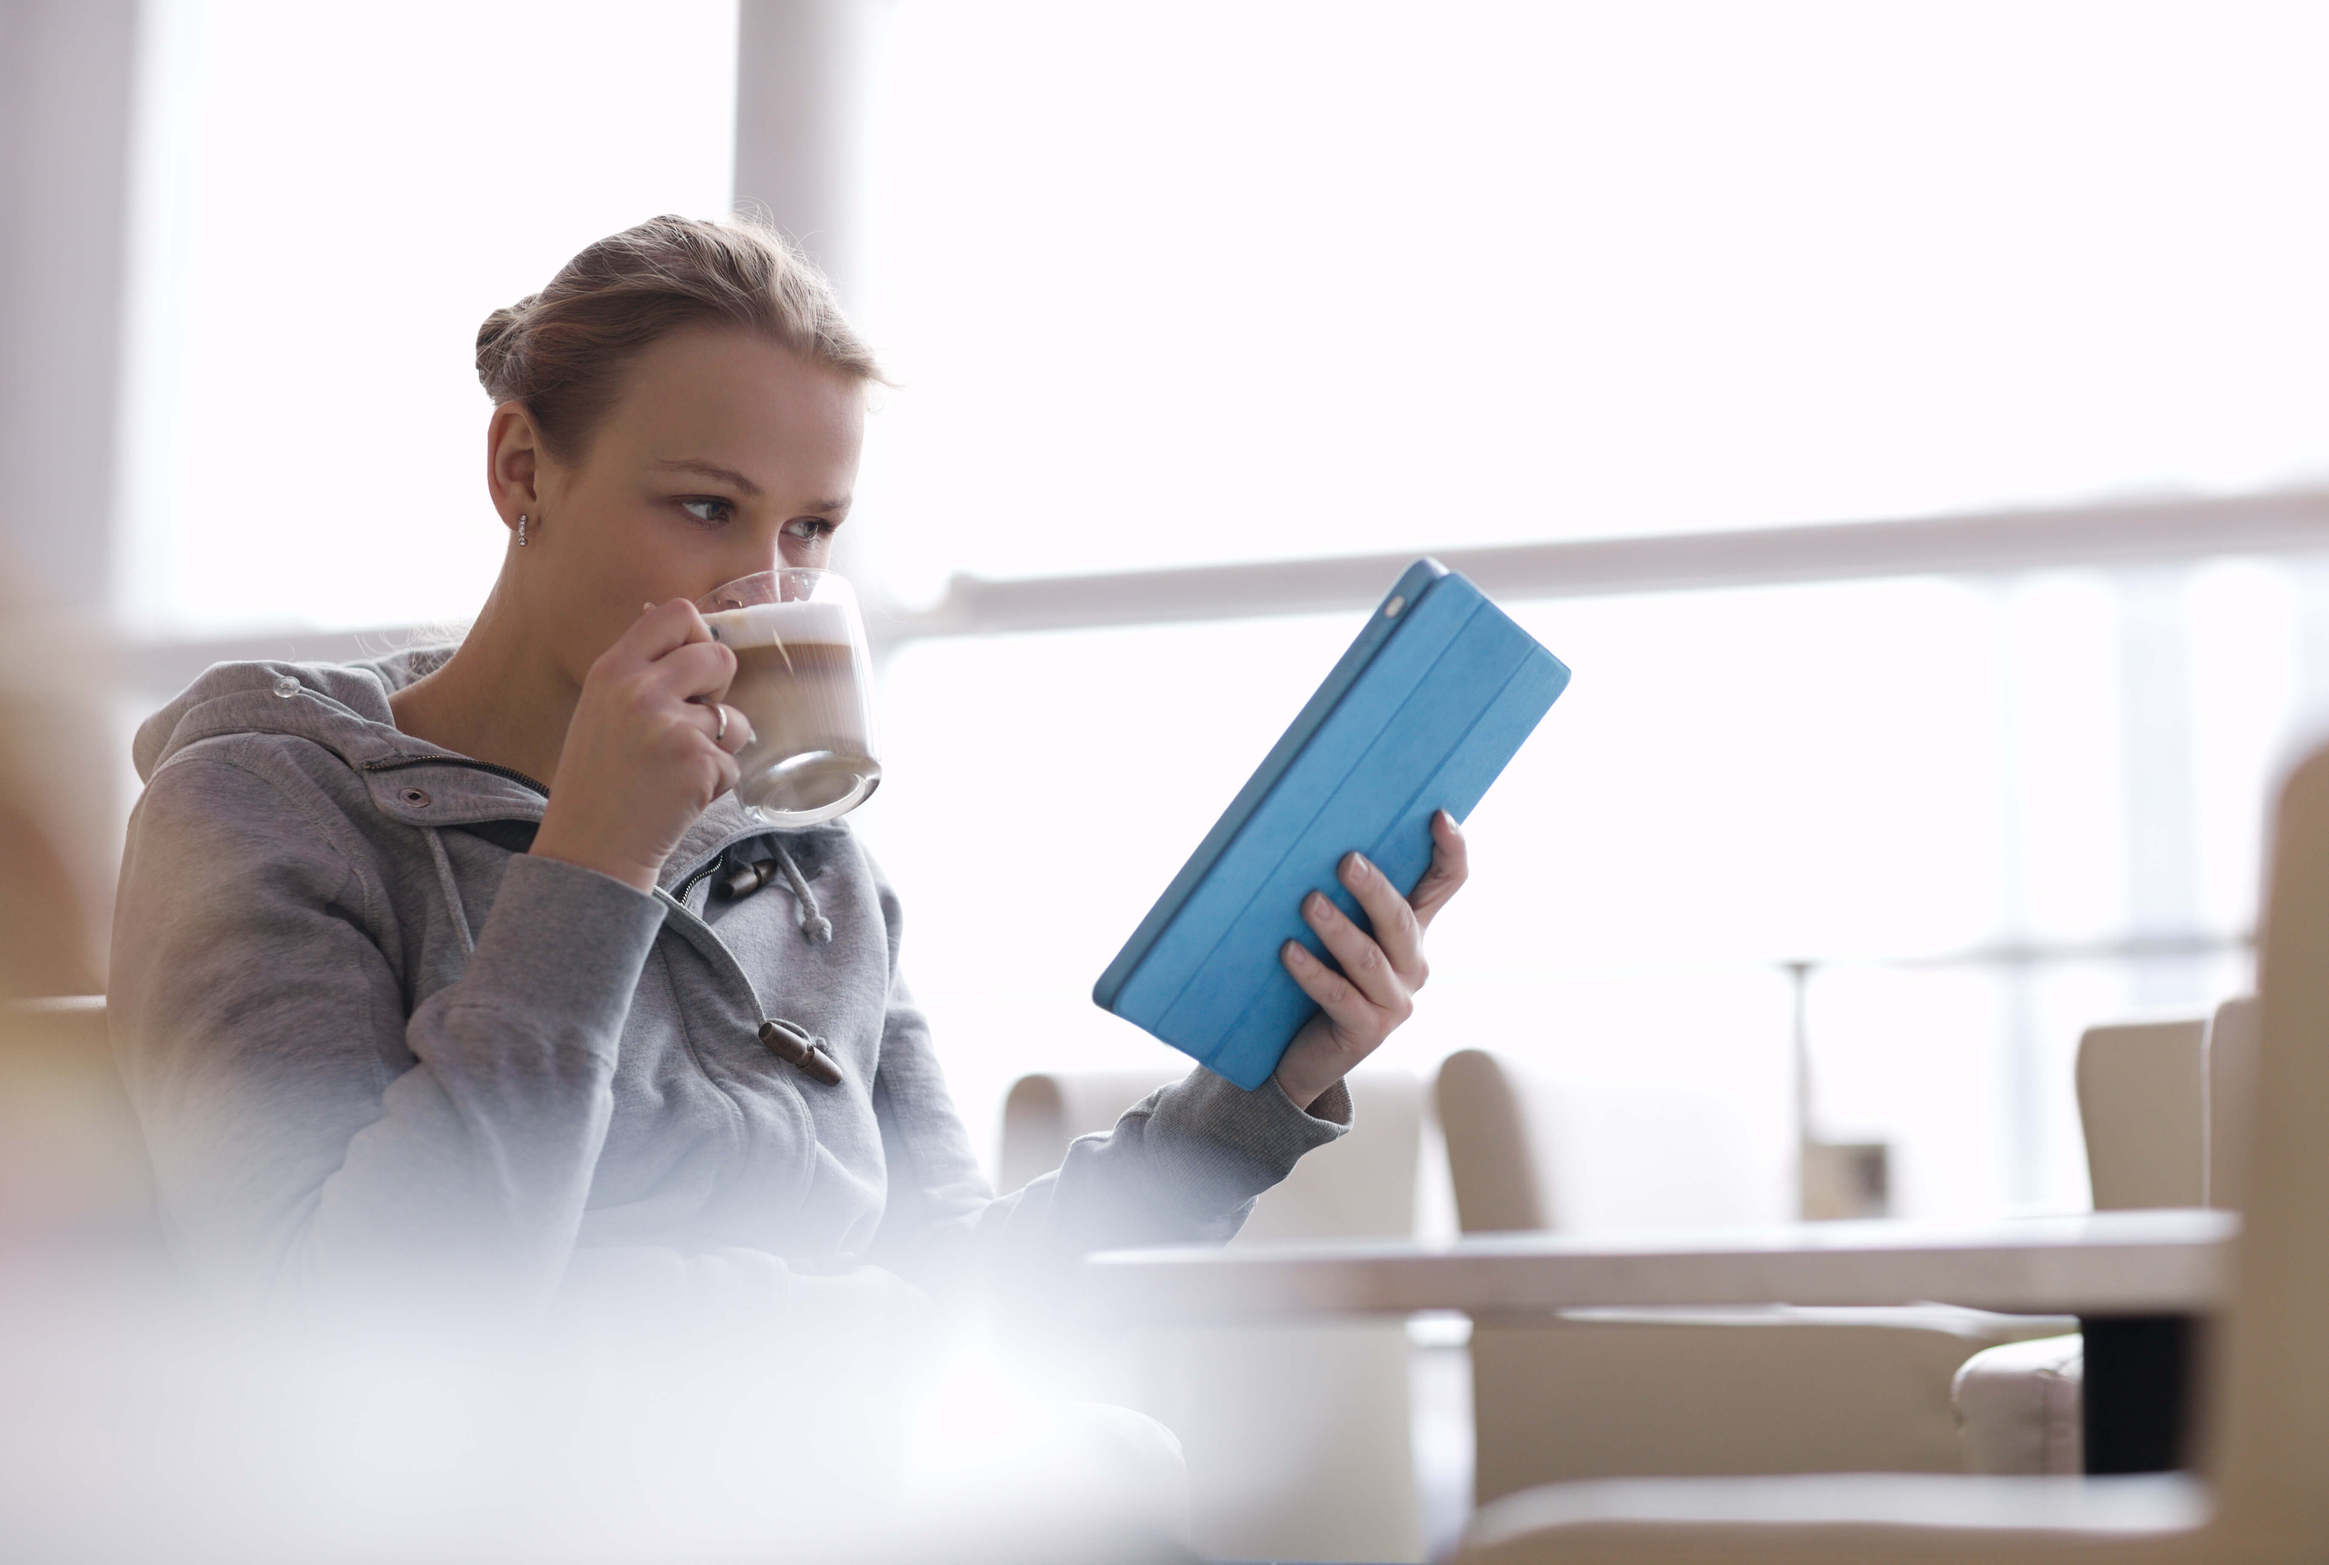
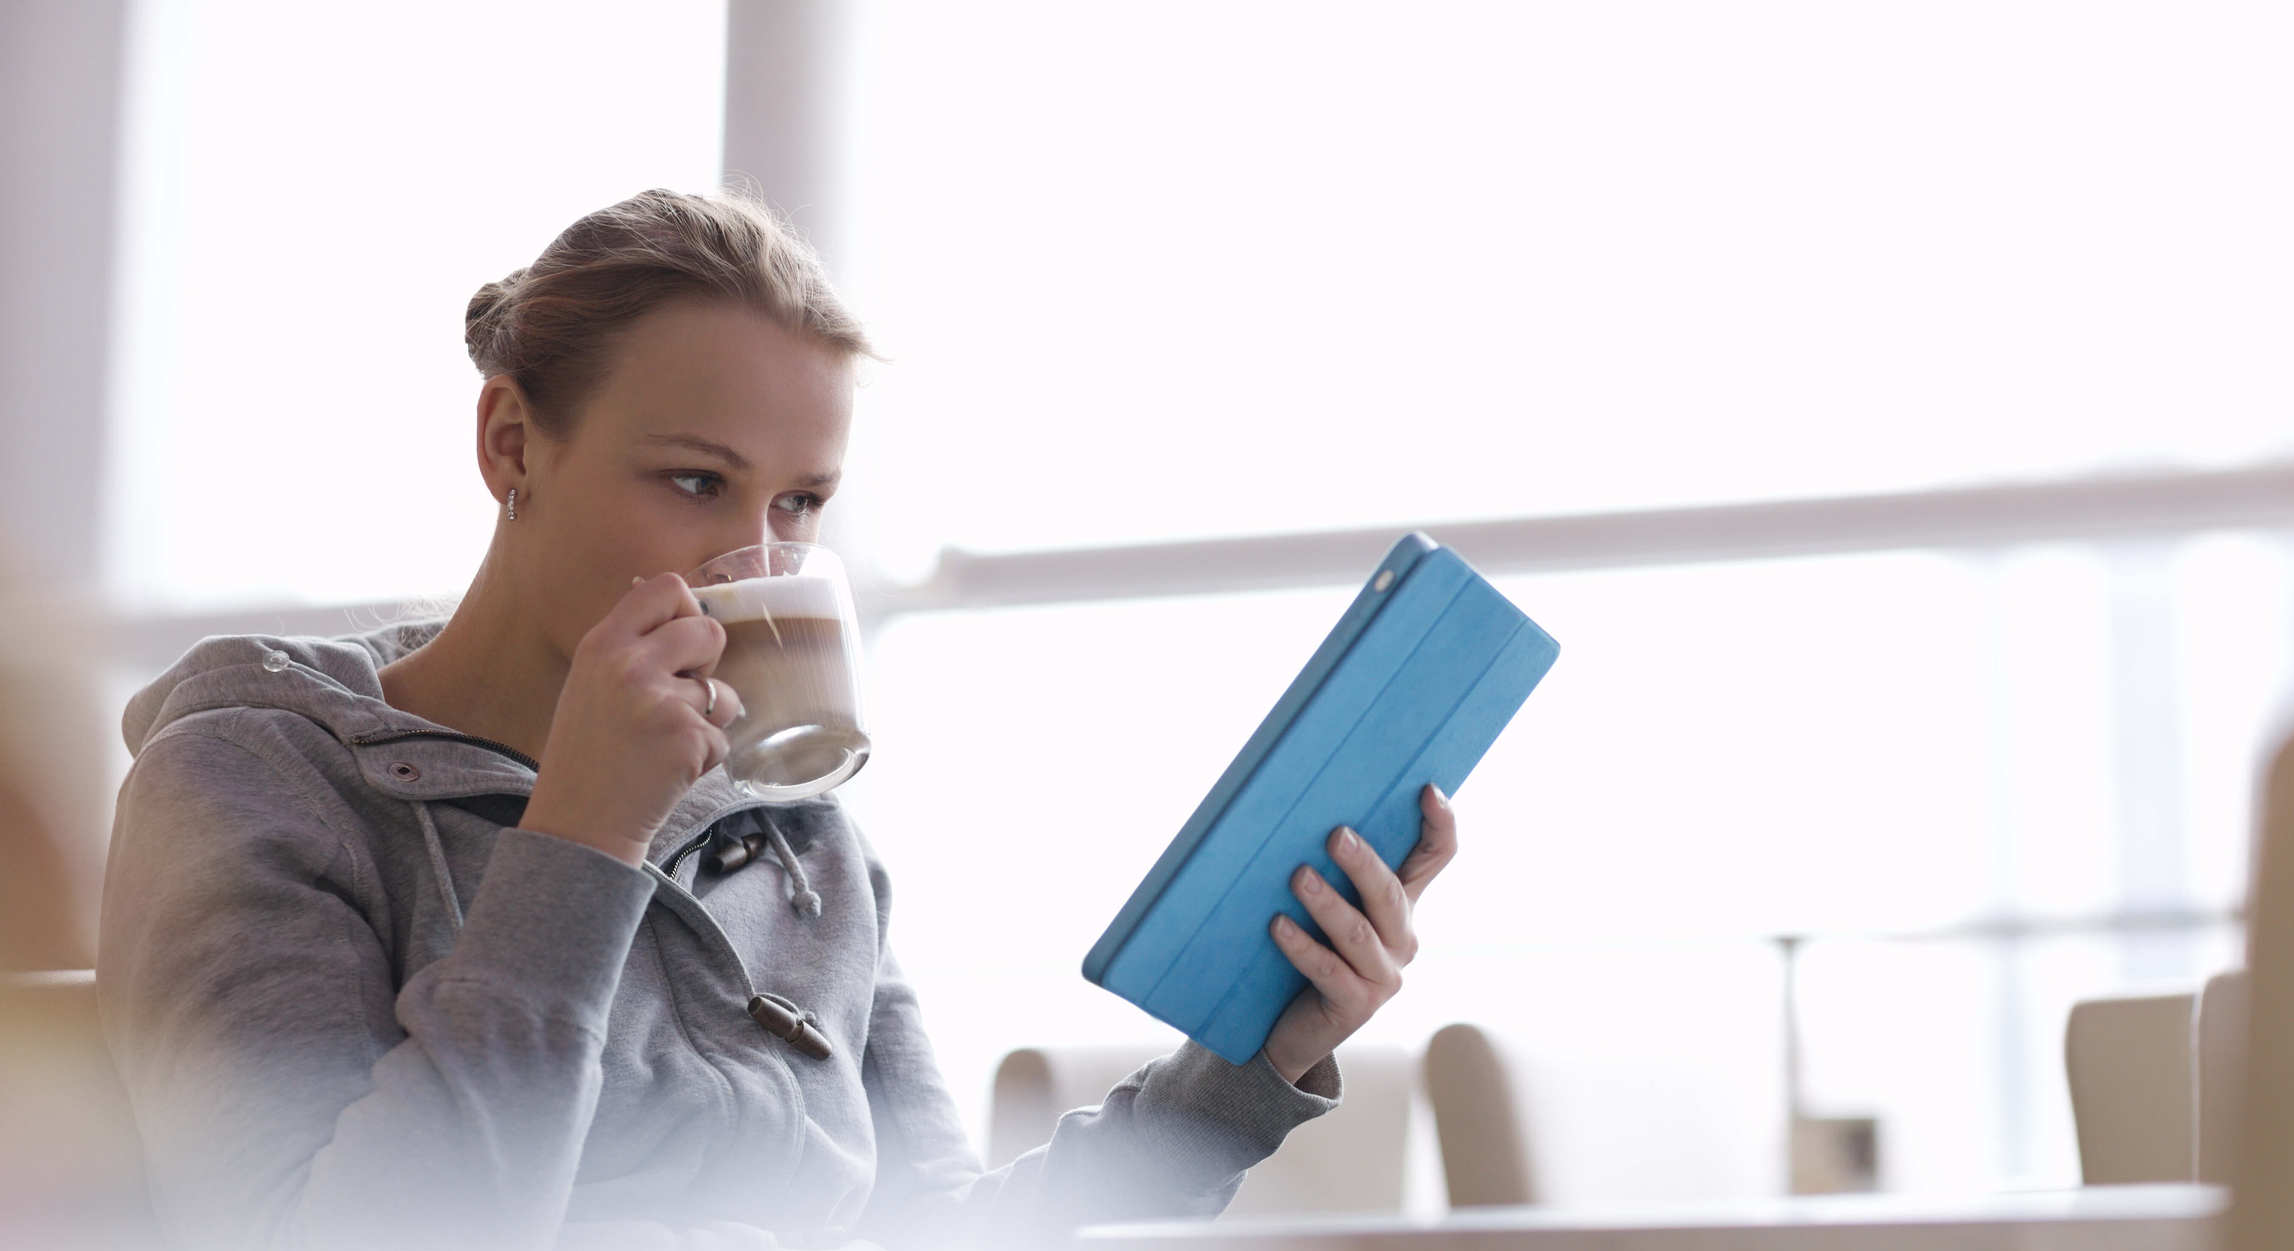
added new images

diff --git a/public/index.html b/public/index.html
@@ -247,7 +247,7 @@
 </section>
 <section class="section-scroll"  style="color: white;padding: 0px"  >
 
-    <div class="container img-holder" data-image="assets/img/placeit.jpg">
+    <div class="container img-holder" data-image="assets/img/placeit_v2.jpg">
         <div class="row "  >
             <div class="col-sm-6 overlay-text col-sm-offset-6">
                 <div class="vertical-align">
